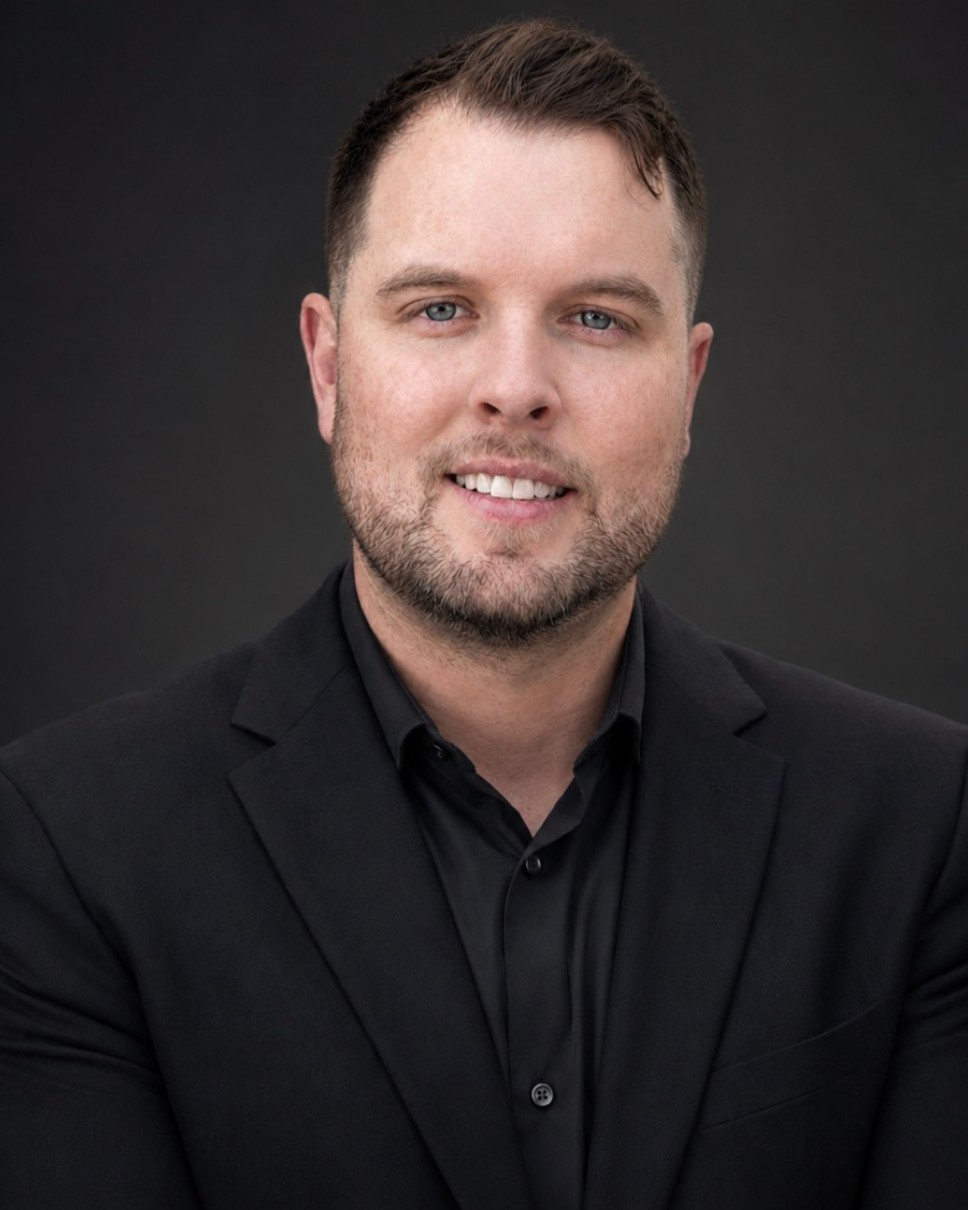
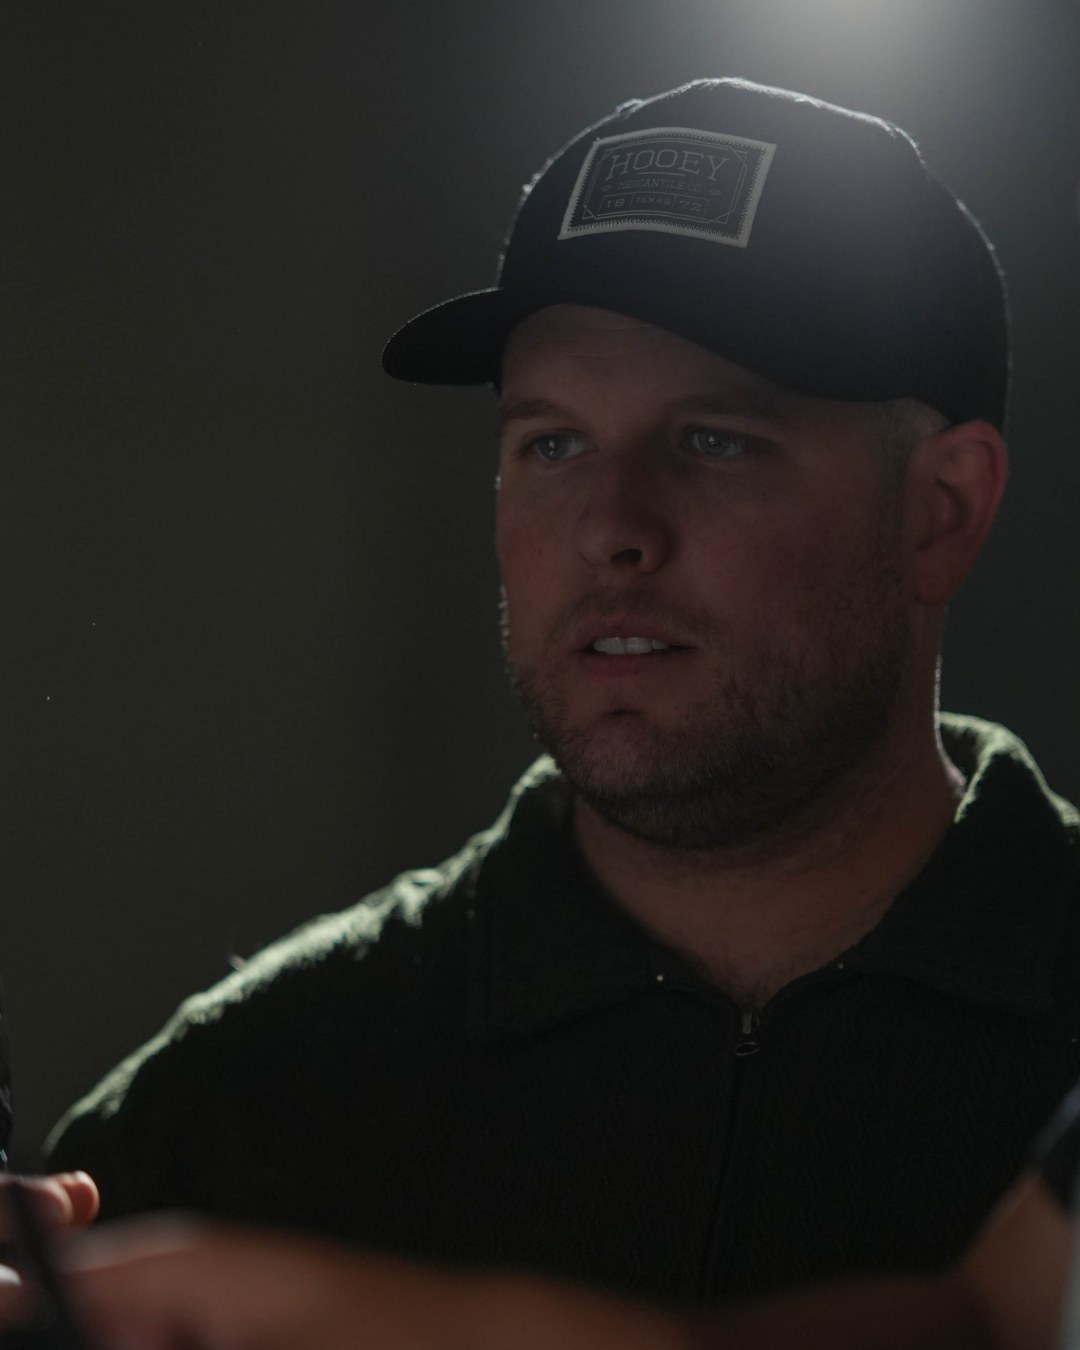
Swap the founder plate to the on-set frame
Replaces the studio headshot with the supplied on-set photograph, which
carries the practical above his cap, the rim light down his shoulder, and
out-of-focus crew in the foreground - a still from a shoot rather than a
portrait, which is what the rest of the page is arguing for.

The 4534x4344 original has a crew member entering at x>4150 and another at
x<250, so the 4:5 window sits between them at 1180,120 2940x3675, output at
1080x1350. That leaves the desktop plate (980 device px at 2x) and mobile
(1020 at 3x) both sampling down slightly rather than up.

Dropped the emerald wash the plate carried. It was tuned for a neutral grey
studio backdrop; over a frame that is already lit and graded on set it read
as a colour cast rather than as styling, strongly so on mobile. The scrim
behind the caption is shorter and lighter now so it stops swallowing the
foreground gear.

Claude-Session: https://claude.ai/code/session_01Sd9Bwdnsxx1825TQDXetJJ

diff --git a/index.html b/index.html
@@ -906,17 +906,13 @@ h1,h2,.section-title{
   aspect-ratio:4/5; position:relative; margin:0; border:1px solid var(--line);
   background:linear-gradient(200deg,var(--ink-raised-2),rgba(11,11,12,.92));
 }
-.studio-portrait img{ width:100%; height:100%; object-fit:cover; object-position:50% 22%; }
-/* an emerald spill in the empty corner of the backdrop, kept well clear of
-   his face so it reads as room light rather than a cast on skin, and a
-   bottom scrim so the caption keeps contrast over the black jacket */
-.studio-portrait::before{
-  content:''; position:absolute; inset:0; pointer-events:none; mix-blend-mode:screen;
-  background:radial-gradient(circle at 4% 2%, rgba(20,155,87,.16), transparent 36%);
-}
+.studio-portrait img{ width:100%; height:100%; object-fit:cover; }
+/* no emerald wash here: the frame is lit on set and carries its own colour,
+   so an added tint read as a cast rather than as styling. just a scrim so
+   the caption holds over the out-of-focus foreground. */
 .studio-portrait::after{
-  content:''; position:absolute; inset:auto 0 0 0; height:44%; pointer-events:none;
-  background:linear-gradient(180deg, transparent, rgba(6,6,7,.86));
+  content:''; position:absolute; inset:auto 0 0 0; height:34%; pointer-events:none;
+  background:linear-gradient(180deg, transparent, rgba(6,6,7,.82));
 }
 /* ::after is generated last, so without this the scrim would dim the two
    bottom bracket marks */
@@ -1362,8 +1358,8 @@ h1,h2,.section-title{
         </div>
         <figure class="studio-portrait bracket-frame">
           <i></i><i></i><i></i><i></i>
-          <img src="assets/founder.jpg" width="968" height="1210" loading="lazy" decoding="async"
-               alt="Nicolas Rufiange, founder of Silver Line Studios, photographed against a dark studio backdrop.">
+          <img src="assets/founder.jpg" width="1080" height="1350" loading="lazy" decoding="async"
+               alt="Nicolas Rufiange on set, backlit by a practical, checking a light meter.">
           <figcaption class="studio-portrait-caption">
             <span class="studio-portrait-name">Nicolas Rufiange</span>
             <!-- title inferred from the studio copy ("founder-led", "a

diff --git a/README.md b/README.md
@@ -30,9 +30,9 @@ selected work, process, differentiators, the studio, an FAQ accordion, a booking
 project-brief form. Both the calendar and the form compose `mailto:` messages and say so on the page,
 since a static site has no backend to take a real booking.
 
-The studio section carries the supplied founder headshot, cropped to the 4:5 plate from the
-screenshot's inner panel so the site draws the only corner brackets on screen. Reel and work-tile
-imagery are still placeholders pending real photography.
+The studio section carries the supplied on-set photograph of the founder, cropped to the 4:5 plate
+from the 4534x4344 original. Reel and work-tile imagery are still placeholders pending real
+photography.
 
 **Needs confirming before this goes live**: the FAQ answers (timelines, revision counts, travel terms)
 are drafts, flagged with a comment in the source. The studio blurb now says "photography and video
